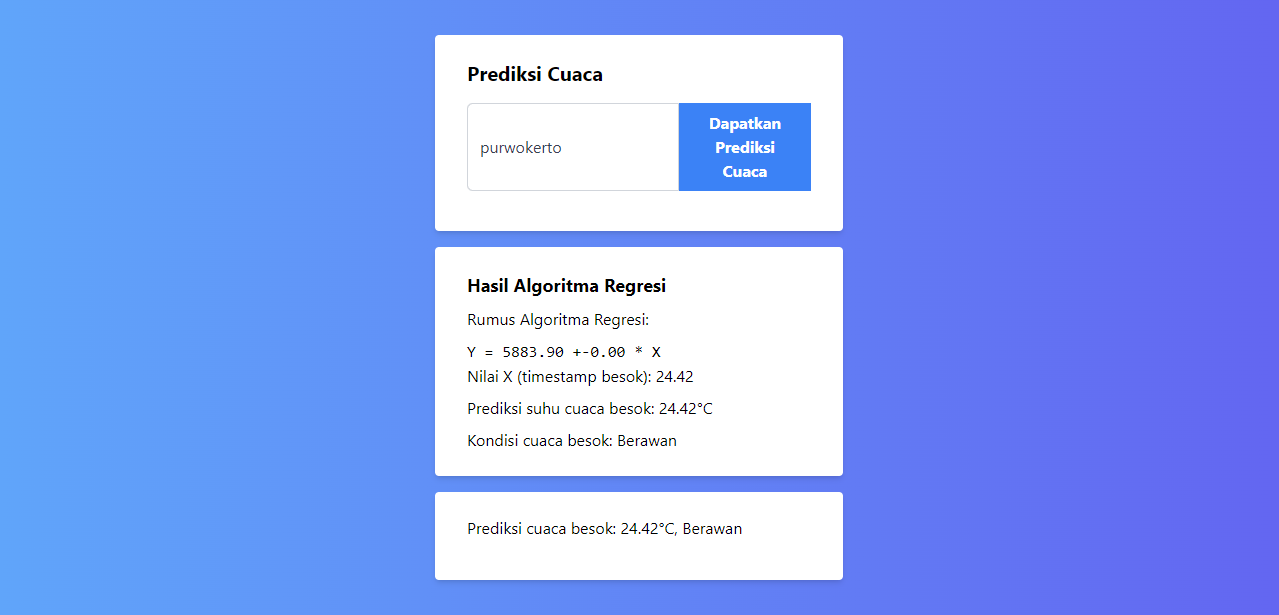
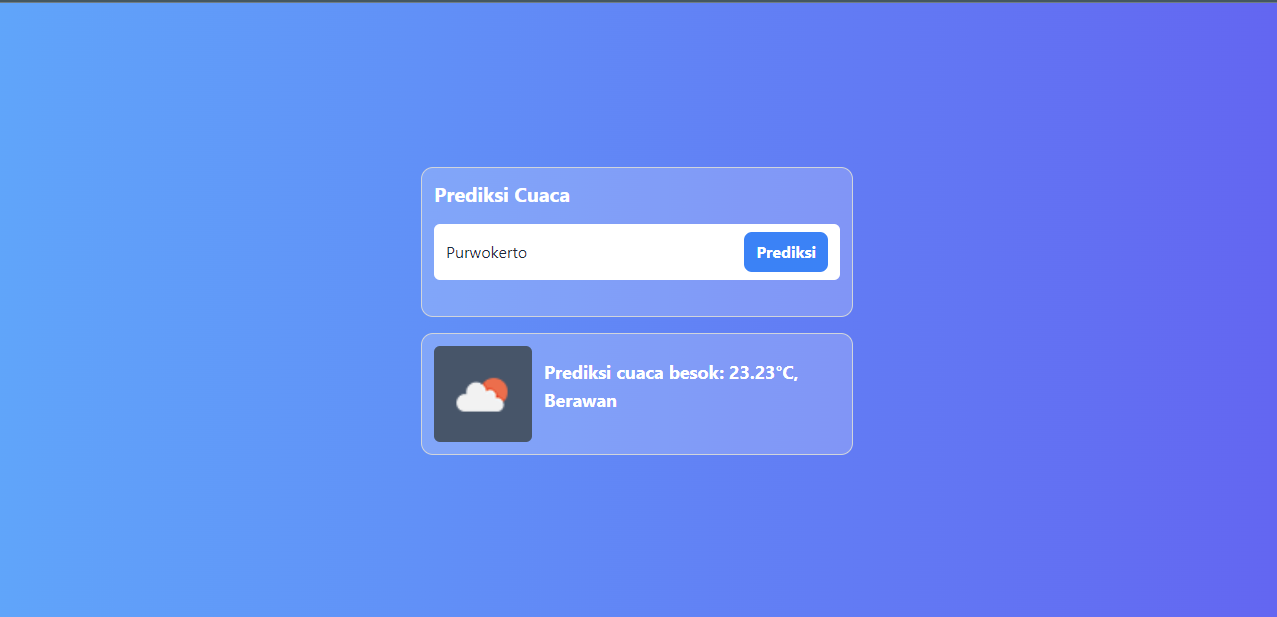
tampilan

Changed region(s): [[0.0, 0.0, 1.0, 0.9577]]

diff --git a/src/App.jsx b/src/App.jsx
@@ -2,7 +2,7 @@ import React, { useState } from 'react';
 import axios from 'axios';
 import * as math from 'mathjs';
 
-const WEATHER_API_KEY = process.env.VITE_WEATHER_API;
+const WEATHER_API_KEY = `${import.meta.env.VITE_WEATHER_API}`;
 const WEATHER_API_ENDPOINT = `https://api.weatherapi.com/v1/forecast.json?key=${WEATHER_API_KEY}&q=`;
 
 export default function App() {
@@ -26,6 +26,8 @@ export default function App() {
       const historicalData = data.forecast.forecastday.map((day) => ({
         date: day.date,
         temp: day.day.avgtemp_c,
+        condition: day.day.condition.text,
+        icon: day.day.condition.icon,
       }));
 
       const predictedWeather = applyRegressionAlgorithm(historicalData);
@@ -57,13 +59,25 @@ export default function App() {
     const tomorrowTemp = math.multiply(tomorrowFeatures, coefficients);
 
     // Additional logic to predict weather condition based on temperature
-    const condition =
-      tomorrowTemp >= 25 ? 'Cerah' : tomorrowTemp >= 15 ? 'Berawan' : 'Hujan';
+    let condition = '';
+    let icon = '';
+
+    if (tomorrowTemp >= 30) {
+      condition = 'Cerah';
+      icon = 'https://openweathermap.org/img/wn/01d.png';
+    } else if (tomorrowTemp >= 20) {
+      condition = 'Berawan';
+      icon = 'https://openweathermap.org/img/wn/02d.png';
+    } else {
+      condition = 'Hujan';
+      icon = 'https://openweathermap.org/img/wn/10d.png';
+    }
 
     const regressionResult = {
       coefficients,
       tomorrowTemp: tomorrowTemp.toFixed(2),
       condition,
+      icon,
     };
 
     setRegressionResult(regressionResult);
@@ -71,54 +85,50 @@ export default function App() {
     return {
       temp: regressionResult.tomorrowTemp,
       condition,
+      icon,
     };
   };
 
   return (
     <div className="bg-gradient-to-r from-blue-400 to-indigo-500 min-h-screen flex items-center justify-center">
-      <div className="w-full max-w-md p-5">
-        <div className="bg-white shadow-md rounded px-8 py-6">
-          <h1 className="text-xl font-bold mb-4">Prediksi Cuaca</h1>
-          <div className="flex mb-4">
-            <input
-              className="appearance-none rounded-r-none bg-white border border-gray-300 rounded-md w-full py-2 px-3 text-gray-700  focus:outline-none focus:border-blue-500 focus:ring-2 focus:ring-blue-500"
-              type="text"
-              value={location}
-              onChange={handleLocationChange}
-              placeholder="Masukkan nama lokasi"
-            />
-            <button
-              className="bg-blue-500  hover:bg-blue-600 text-white font-bold py-2 px-3 rounded-l-none"
-              onClick={fetchWeatherData}
-              disabled={location === '' || loading}
-            >
-              {loading ? 'Memuat...' : 'Dapatkan Prediksi Cuaca'}
-            </button>
+      <div className="w-full max-w-md p-2">
+        <div className="bg-white bg-opacity-20 rounded-xl p-3 border border-gray-300 ">
+          <h1 className="text-xl font-bold mb-4 text-white">Prediksi Cuaca</h1>
+          <div className="flex flex-col mb-4">
+            <div className="flex items-center bg-white rounded-md py-2 px-3 mb-2">
+              <input
+                className="bg-white outline-none flex-grow text-slate-800 placeholder-slate-500"
+                type="text"
+                value={location}
+                onChange={handleLocationChange}
+                placeholder="Masukkan nama lokasi"
+              />
+              <button
+                className="bg-blue-500 hover:bg-blue-600 text-white font-bold py-2 px-3 rounded-lg"
+                onClick={fetchWeatherData}
+                disabled={location === '' || loading}
+              >
+                {loading ? 'Memuat...' : 'Prediksi'}
+              </button>
+            </div>
           </div>
           {loading && <p>Proses algoritma regresi sedang berjalan...</p>}
         </div>
-        {regressionResult && (
-          <div className="mt-4 bg-white shadow-md rounded px-8 py-6">
-            <h3 className="text-lg font-bold mb-2">Hasil Algoritma Regresi</h3>
-            <p className="mb-2">Rumus Algoritma Regresi:</p>
-            <code className="mb-2">
-              Y = {regressionResult.coefficients[0].toFixed(2)} +
-              {regressionResult.coefficients[1].toFixed(2)} * X
-            </code>
-            <p className="mb-2">
-              Nilai X (timestamp besok): {regressionResult.tomorrowTemp}
-            </p>
-            <p className="mb-2">
-              Prediksi suhu cuaca besok: {regressionResult.tomorrowTemp}°C
-            </p>
-            <p>Kondisi cuaca besok: {regressionResult.condition}</p>
-          </div>
-        )}
         {prediction && (
-          <div className="mt-4 bg-white shadow-md rounded px-8 py-6">
-            <p className="mb-4">
-              Prediksi cuaca besok: {prediction.temp}°C, {prediction.condition}
-            </p>
+          <div className="mt-4 bg-white bg-opacity-20 rounded-xl p-3 border border-gray-300">
+            <div className="flex items-center gap-3">
+              <div className="p-2 rounded-md bg-slate-600">
+                <img
+                  src={prediction.icon}
+                  alt="Weather Icon"
+                  className="w-20 h-20 mr-3 object-cover"
+                />
+              </div>
+              <p className="text-lg font-bold mb-4 text-white">
+                Prediksi cuaca besok: {prediction.temp}°C,{' '}
+                {prediction.condition}
+              </p>
+            </div>
           </div>
         )}
       </div>
